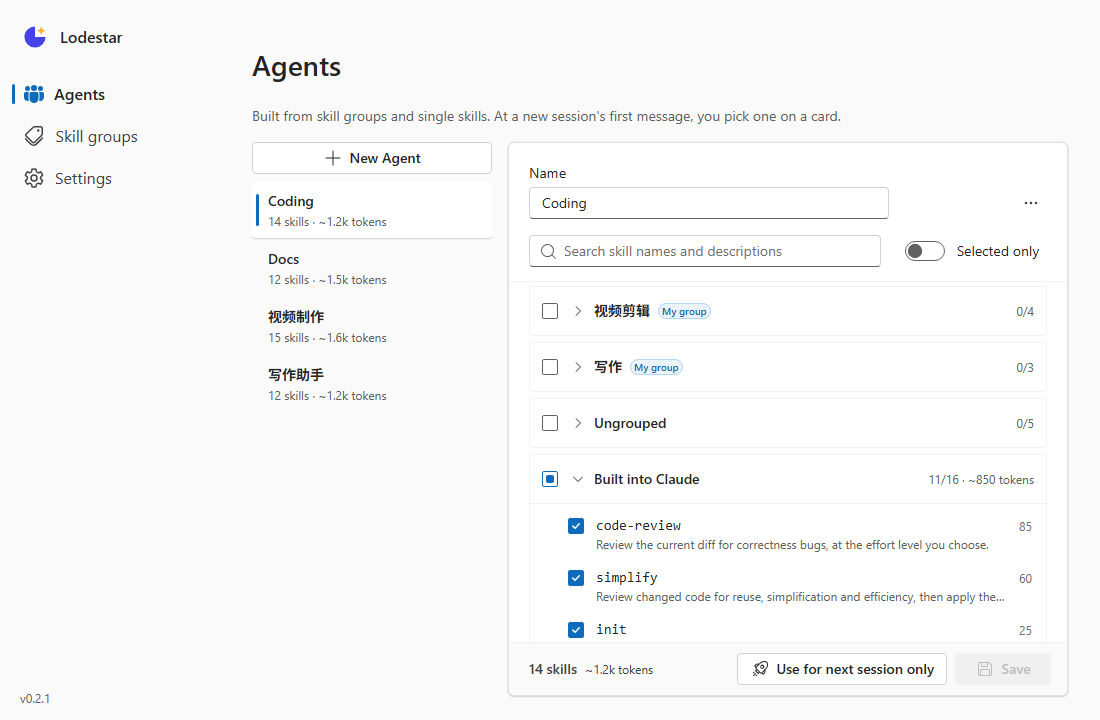
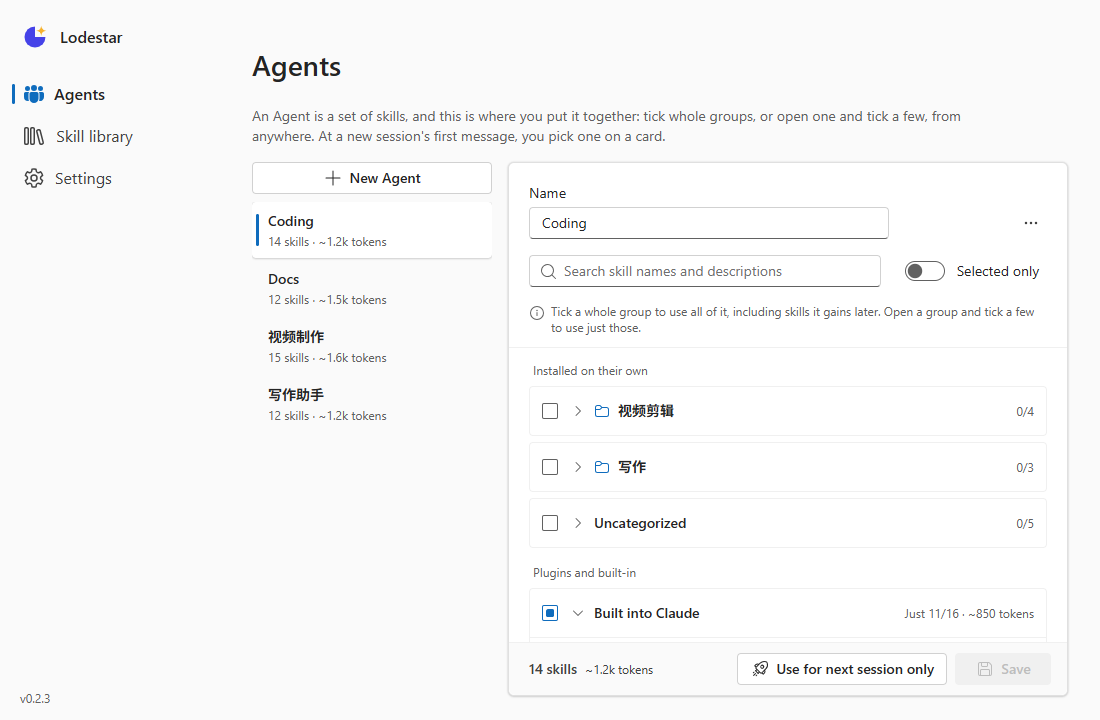
Lodestar v0.2.3: categories everywhere, README to match
The plugin's panel calls the person's own groups categories too, as the
client does: 分类 in Chinese, with 未分类 for the loose skills in none,
and "installed on their own" in place of 零碎装 / "individually installed".
Its Agent editor says what ticking a whole group means.

The READMEs describe Agents, groups and categories as they now are, with
new screenshots of the Agents page. The plugin and the client go to 0.2.3.

diff --git a/plugin/hooks/i18n.ts b/plugin/hooks/i18n.ts
@@ -188,7 +188,7 @@ const zh: Words = {
   sameAsParent: '和上级代理一样',
   clientPick: '客户端里调好的',
 
-  ungrouped: '未归组',
+  ungrouped: '未分类',
   sources: { 'built-in': 'Claude 自带', policySettings: '组织', mcp: 'MCP' },
   otherSource: '其他',
   pluginTag: '插件',
@@ -231,10 +231,10 @@ const zh: Words = {
     updated: name => `已更新 Agent「${name}」`,
     created: name => `已新建 Agent「${name}」`,
     saved: name => `已保存 Agent「${name}」`,
-    groupTaken: name => `已经有叫「${name}」的技能组了`,
+    groupTaken: name => `已经有叫「${name}」的分类了`,
     renamed: name => `已改名为「${name}」`,
-    groupDeleted: name => `已删除技能组「${name}」，里面的 skill 回到「未归组」`,
-    reset: 'Agent 和技能组已恢复成默认设置',
+    groupDeleted: name => `已删除分类「${name}」，只在这个分类里的 skill 回到「未分类」`,
+    reset: 'Agent 和分类已恢复成默认设置',
   },
 
   command: {
@@ -260,36 +260,36 @@ const zh: Words = {
     editAgent: '编辑 Agent',
     name: '名字',
     namePlaceholder: '视频制作',
-    whichGroups: '装哪些技能组',
-    whichGroupsHint: '勾整组，或者点组名展开、勾单个 skill',
+    whichGroups: '装哪些 skill',
+    whichGroupsHint: '勾整组（以后组里新增的也会带上），或者点组名展开、只勾几个',
     picked: (count, always) => `已选 ${count} 个（含 ${always} 个常驻）`,
     save: '保存',
-    groupsHeading: '技能组',
-    groupGone: '这个技能组已经不在了',
-    editGroup: '编辑技能组',
+    groupsHeading: '分类',
+    groupGone: '这个分类已经不在了',
+    editGroup: '编辑分类',
     nameHint: '改完按回车',
     members: count => `成员 ${count} 个`,
-    membersHint: '勾选零碎装的 skill 放进这个组。一个 skill 可以同时放进几个组',
-    noLoose: '没有零碎装的 skill',
+    membersHint: '勾选单独安装的 skill 放进这个分类。一个 skill 可以同时放进几个分类',
+    noLoose: '没有单独安装的 skill',
     inGroup: names => `  在 ${names}`,
     alsoIn: names => `  也在 ${names}`,
-    deleteGroup: '删除这个技能组',
-    deleteGroupConfirm: '确认删除这个技能组？再点一次',
+    deleteGroup: '删除这个分类',
+    deleteGroupConfirm: '确认删除这个分类？再点一次',
     manage: '管理',
     lockedNote: '这个会话已经锁定，这里的修改从下一个新会话起生效',
     agents: 'Agent',
-    agentsHint: '由技能组和单个 skill 拼成；新会话发第一条消息时选一个',
+    agentsHint: '一套 skill：整组勾或者只勾几个，来自哪里都行；新会话发第一条消息时选一个',
     noAgents: '还没有 Agent',
     edit: '编辑',
     remove: '删除',
     removeConfirm: '确认删除？',
     createAgent: '＋ 新建 Agent',
-    groups: '技能组',
-    groupsHint: '把零碎装的 skill 归在一起',
+    groups: '分类',
+    groupsHint: '把单独安装的 skill 归在一起，一个 skill 可以放进几个分类',
     emptyGroup: '空',
-    newGroupPlaceholder: '新技能组名，回车创建',
-    allGrouped: '零碎装的 skill 都已归组',
-    looseLeft: count => `还有 ${count} 个零碎装的 skill 没归组`,
+    newGroupPlaceholder: '新分类名，回车创建',
+    allGrouped: '单独安装的 skill 都已分类',
+    looseLeft: count => `还有 ${count} 个单独安装的 skill 没分类`,
     fixedGroups: '插件和 Claude 自带的 skill',
     fixedGroupsHint: '装的时候就分好组了，不能调整；建 Agent 时可以整组勾选',
     none: '没有',
@@ -307,14 +307,14 @@ const zh: Words = {
     pickerPersonNote: '每开一个子代理都弹卡片问你，主代理建议的排第一',
     pickerAgentNote: '主代理在子代理的任务里写一行「技能装配：名字」来指定；不写就沿用主会话',
     dataFile: '数据文件',
-    dataFileHint: 'Agent、技能组和上面的设置都存在这里，可以直接编辑，别的工具也能读',
+    dataFileHint: 'Agent、分类和上面的设置都存在这里，可以直接编辑，别的工具也能读',
     noHome: '没找到用户目录，只存在插件自己的存储里',
     fileInvalid: error => `文件格式有误（${error}）。现在用的是上次读到的设置；在这里改动会用这些设置覆盖这个文件`,
     fileUnreadable: error => `读不了这个文件（${error}），现在用的是上次读到的设置`,
     fileUnwritable: error => `写不进这个文件（${error}），改动只存在插件自己的存储里`,
     unknownError: '原因不明',
     reset: '恢复默认设置',
-    resetConfirm: 'Agent 和技能组都会恢复成默认，再点一次确认',
+    resetConfirm: 'Agent 和分类都会恢复成默认，再点一次确认',
     listTokens: (loaded, total) => ` · 清单约 ${loaded} / ${total} tokens`,
     loaded: (count, total, tokens) => `已装配 ${count} / ${total} 个 skill${tokens}`,
     lockedState: '● 已锁定：这个会话不再改装配',
@@ -360,7 +360,7 @@ const en: Words = {
   sameAsParent: 'Same as its parent agent',
   clientPick: 'Prepared in the client',
 
-  ungrouped: 'Ungrouped',
+  ungrouped: 'Uncategorized',
   sources: { 'built-in': 'Built into Claude', policySettings: 'Organization', mcp: 'MCP' },
   otherSource: 'Other',
   pluginTag: 'plugin',
@@ -403,10 +403,10 @@ const en: Words = {
     updated: name => `Updated the Agent "${name}"`,
     created: name => `Created the Agent "${name}"`,
     saved: name => `Saved the Agent "${name}"`,
-    groupTaken: name => `There's already a group called "${name}"`,
+    groupTaken: name => `There's already a category called "${name}"`,
     renamed: name => `Renamed to "${name}"`,
-    groupDeleted: name => `Deleted the group "${name}"; its skills are ungrouped again`,
-    reset: 'Agents and skill groups are back to the defaults',
+    groupDeleted: name => `Deleted the category "${name}"; skills that were only in it are uncategorized again`,
+    reset: 'Agents and categories are back to the defaults',
   },
 
   command: {
@@ -432,36 +432,36 @@ const en: Words = {
     editAgent: 'Edit Agent',
     name: 'Name',
     namePlaceholder: 'Video production',
-    whichGroups: 'Which skill groups',
-    whichGroupsHint: 'Tick whole groups, or open a group and tick single skills',
+    whichGroups: 'Which skills',
+    whichGroupsHint: 'Tick a whole group (skills it gains later come along), or open one and tick a few',
     picked: (count, always) => `${count} picked (${always} always on)`,
     save: 'Save',
-    groupsHeading: 'Skill groups',
-    groupGone: 'This skill group no longer exists',
-    editGroup: 'Edit skill group',
+    groupsHeading: 'Categories',
+    groupGone: 'This category no longer exists',
+    editGroup: 'Edit category',
     nameHint: 'Press Enter when done',
     members: count => plural(count, 'member', 'members'),
-    membersHint: 'Tick individually installed skills to put them in this group. A skill can be in several groups',
-    noLoose: 'No individually installed skills',
+    membersHint: 'Tick skills installed on their own to put them in this category. A skill can be in several categories',
+    noLoose: 'No skills installed on their own',
     inGroup: names => `  in ${names}`,
     alsoIn: names => `  also in ${names}`,
-    deleteGroup: 'Delete this group',
-    deleteGroupConfirm: 'Delete this group? Press again',
+    deleteGroup: 'Delete this category',
+    deleteGroupConfirm: 'Delete this category? Press again',
     manage: 'Manage',
     lockedNote: 'This session is locked; changes here apply from the next new session',
     agents: 'Agents',
-    agentsHint: "Built from skill groups and single skills; picked at a new session's first message",
+    agentsHint: "A set of skills: whole groups or just a few, from anywhere; picked at a new session's first message",
     noAgents: 'No Agents yet',
     edit: 'Edit',
     remove: 'Delete',
     removeConfirm: 'Delete?',
     createAgent: '＋ New Agent',
-    groups: 'Skill groups',
-    groupsHint: 'Group the skills you installed one by one',
+    groups: 'Categories',
+    groupsHint: 'Put skills you installed on their own together; a skill can be in several',
     emptyGroup: 'empty',
-    newGroupPlaceholder: 'New group name, then Enter',
-    allGrouped: 'Every individually installed skill is in a group',
-    looseLeft: count => `${plural(count, 'individually installed skill is', 'individually installed skills are')} in no group`,
+    newGroupPlaceholder: 'New category name, then Enter',
+    allGrouped: 'Every skill installed on its own is in a category',
+    looseLeft: count => `${plural(count, 'skill installed on its own is', 'skills installed on their own are')} in no category`,
     fixedGroups: 'Skills from plugins and Claude',
     fixedGroupsHint: 'Grouped when installed and fixed; you can tick a whole group in an Agent',
     none: 'None',
@@ -479,14 +479,14 @@ const en: Words = {
     pickerPersonNote: "A card asks you for each subagent, the main agent's suggestion first",
     pickerAgentNote: 'The main agent names a set with a line "skill loadout: <name>" in the task; without it the subagent keeps the session\'s set',
     dataFile: 'Data file',
-    dataFileHint: 'Agents, skill groups and the settings above are kept here; you can edit it, and other tools read it',
+    dataFileHint: 'Agents, categories and the settings above are kept here; you can edit it, and other tools read it',
     noHome: "No home folder found; kept in the plugin's own storage only",
     fileInvalid: error => `The file has a format error (${error}). The settings read last are in use; a change here overwrites the file with them`,
     fileUnreadable: error => `The file can't be read (${error}); the settings read last are in use`,
     fileUnwritable: error => `The file can't be written (${error}); changes are kept in the plugin's own storage only`,
     unknownError: 'unknown reason',
     reset: 'Restore defaults',
-    resetConfirm: 'Agents and skill groups go back to the defaults; press again to confirm',
+    resetConfirm: 'Agents and categories go back to the defaults; press again to confirm',
     listTokens: (loaded, total) => ` · listing ~${loaded} / ${total} tokens`,
     loaded: (count, total, tokens) => `${count} / ${total} skills loaded${tokens}`,
     lockedState: "● Locked: this session's skills won't change",

diff --git a/plugin/hooks/loadout.test.tsx b/plugin/hooks/loadout.test.tsx
@@ -828,7 +828,7 @@ test('a group is made from loose skills only, renamed, and deleted', async ($, o
   expect(await ui.find({ type: 'Text', text: /成员 2 个/ })).toBeDefined()
   await ui.press({ key: 'group-done' })
   expect(await ui.find({ key: 'edit-group:视频素材' })).toBeDefined()
-  expect((await ui.find({ type: 'Text', text: /没归组/ }))?.text).toBe('还有 2 个零碎装的 skill 没归组')
+  expect((await ui.find({ type: 'Text', text: /没分类/ }))?.text).toBe('还有 2 个单独安装的 skill 没分类')
   expect(await ui.find({ type: 'Text', text: /插件和 Claude 自带/ })).toBeDefined()
 
   // On the main screen the group is ticked whole.
@@ -838,7 +838,7 @@ test('a group is made from loose skills only, renamed, and deleted', async ($, o
   await ui.press({ key: 'del-group:视频素材' })
   await ui.press({ key: 'del-group:视频素材' })
   expect(await ui.find({ key: 'edit-group:视频素材' })).toBe(undefined)
-  expect((await ui.find({ type: 'Text', text: /没归组/ }))?.text).toBe('还有 4 个零碎装的 skill 没归组')
+  expect((await ui.find({ type: 'Text', text: /没分类/ }))?.text).toBe('还有 4 个单独安装的 skill 没分类')
   await ui.unmount()
 
   expect(fileOf(fake, LIBRARY_PATH)['groups']).toEqual({})

diff --git a/plugin/hooks/register.tsx b/plugin/hooks/register.tsx
@@ -160,8 +160,8 @@ const LOADOUT_TOOL = {
   name: 'loadout',
   description:
     'Lodestar (skill loadout): action "status" returns the skills this session loads (the person picks an Agent when the ' +
-    "conversation's first message is sent; locked after that), the Agents, the skill groups, where they are " +
-    'stored, and diagnostics; "open" opens the Lodestar panel, where Agents and skill groups are managed.',
+    "conversation's first message is sent; locked after that), the Agents, the categories, where they are " +
+    'stored, and diagnostics; "open" opens the Lodestar panel, where Agents and categories are managed.',
   inputSchema: {
     type: 'object',
     properties: { action: { type: 'string', enum: ['status', 'open'] } },

diff --git a/README.md b/README.md
@@ -24,7 +24,7 @@ Claude Code shows the model every skill you have installed, in every session. Lo
 - **Pick at the first message.** A card asks which Agent to use before Claude reads anything, so nothing in the prompt cache is lost.
 - **One set per session.** It locks once the session starts. Need one more skill? Name it in your message.
 - **Subagents included.** Each subagent can get its own set; forks keep their parent's.
-- **A tray client for Windows.** Build Agents and skill groups any time, and prepare a one-off set for your next session.
+- **A tray client for Windows.** Build Agents, browse every skill you have, and prepare a one-off set for your next session.
 - **Chinese and English**, in the plugin and the client alike.
 
 ## Install
@@ -61,8 +61,9 @@ Download `Lodestar_<version>_x64-setup.exe` from the [latest release](https://gi
 
 ## Concepts
 
-- **Agent**: a named set of skills, such as *Coding* or *Video production*. Each session uses one.
-- **Skill group**: a category of skills. Each plugin is a group, and so are Claude's built-in skills; the skills you install one by one, you group yourself.
+- **Agent**: a named set of skills, such as *Coding* or *Video production*. Each session uses one. An Agent takes whole groups, including skills they gain later, or just a few of their skills, from anywhere.
+- **Group**: skills that came together. Each plugin is a group, and so are Claude's built-in skills.
+- **Category**: your own group for skills you installed on their own. A skill can be in several categories, and an Agent can take a whole category.
 
 ## Settings
 
@@ -81,7 +82,7 @@ Everything is plain JSON in `~/.skill-loadout/` (or the folder `SKILL_LOADOUT_HO
 
 | File | Holds | Written by |
 | --- | --- | --- |
-| `library.json` | Agents, skill groups and settings | the panel, the client, you |
+| `library.json` | Agents, categories and settings | the panel, the client, you |
 | `claude-code-skills.json` | The skills Claude Code has, with their descriptions | the plugin |
 | `next-session.json` | A set prepared for the next session | the client |
 | `client.json` | Where the client is installed | the client |
@@ -106,8 +107,8 @@ The first run creates `library.json` with two example Agents, *Coding* and *Docs
 }
 ```
 
-- `groups`: a group name and its skills. `*` is a wildcard; `!name` leaves a skill out.
-- `agents`: an Agent's whole `groups`, by ID (`g:<your group>`, `p:<plugin>`, `s:built-in`), plus single `skills`.
+- `groups`: your categories, each a name and its skills. `*` is a wildcard; `!name` leaves a skill out. A skill may be in several.
+- `agents`: an Agent's whole `groups`, by ID (`g:<category>`, `p:<plugin>`, `s:built-in`), plus single `skills`.
 - `subagentPicker`: `agent` or `person`. `language`: `auto`, `zh` or `en`.
 - Fields that Lodestar doesn't know are kept when it saves.
 
@@ -137,7 +138,7 @@ The first run creates `library.json` with two example Agents, *Coding* and *Docs
 - Sessions started by another session or by a scheduled task also wait on the card; turn the card off if that gets in the way.
 - Whether the main agent names a subagent's set depends on the model (Haiku doesn't); naming the set in your request always works.
 - A subagent's set is kept in memory: after a restart, a resumed subagent gets the main session's set.
-- If two places save Agents or groups at the same moment, the later save wins.
+- If two places save Agents or categories at the same moment, the later save wins.
 
 </details>
 

diff --git a/README.zh-CN.md b/README.zh-CN.md
@@ -24,7 +24,7 @@ Claude Code 会把你装的所有 skill 都列给模型，每个会话都是。L
 - **第一条消息时选**：Claude 读消息之前，卡片先问你用哪个 Agent，不会浪费对话缓存。
 - **一个会话一套**：会话开始后就锁定；临时要多用一个 skill，在消息里写出它的名字就行。
 - **子代理也管**：每个子代理可以有自己的一套；fork 出来的沿用上级的。
-- **Windows 托盘客户端**：随时编辑 Agent 和技能组，还能给下一个会话临时调一套。
+- **Windows 托盘客户端**：随时编辑 Agent、查看手上所有的 skill，还能给下一个会话临时调一套。
 - **中文和英文**：插件和客户端都支持。
 
 ## 安装
@@ -61,8 +61,9 @@ Claude Code 会把你装的所有 skill 都列给模型，每个会话都是。L
 
 ## 概念
 
-- **Agent**：起了名字的一套 skill，比如「Coding」「视频制作」。每个会话用一个。
-- **技能组**：skill 的分类。每个插件是一组，Claude 自带的是一组；零碎装的 skill 由你自己归组。
+- **Agent**：起了名字的一套 skill，比如「Coding」「视频制作」。每个会话用一个。可以整组勾（以后组里新增的 skill 也会带上），也可以只勾其中几个，来自哪里都行。
+- **组**：一起装进来的 skill。每个插件是一组，Claude 自带的是一组。
+- **分类**：你给单独安装的 skill 建的组。一个 skill 可以放进几个分类，Agent 可以整个分类勾选。
 
 ## 设置
 
@@ -81,7 +82,7 @@ Claude Code 会把你装的所有 skill 都列给模型，每个会话都是。L
 
 | 文件 | 存的是 | 谁写 |
 | --- | --- | --- |
-| `library.json` | Agent、技能组和设置 | 面板、客户端、你自己 |
+| `library.json` | Agent、分类和设置 | 面板、客户端、你自己 |
 | `claude-code-skills.json` | Claude Code 实际有的 skill 及其说明 | 插件 |
 | `next-session.json` | 给下一个会话调好的一套 | 客户端 |
 | `client.json` | 客户端装在哪里 | 客户端 |
@@ -106,8 +107,8 @@ Claude Code 会把你装的所有 skill 都列给模型，每个会话都是。L
 }
 ```
 
-- `groups`：组名和它的 skill。`*` 是通配符，`!名字` 表示排除。
-- `agents`：Agent 包含的整组（写组的编号：`g:自己的组`、`p:插件名`、`s:built-in`），加上单个的 `skills`。
+- `groups`：你的分类，分类名和它的 skill。`*` 是通配符，`!名字` 表示排除；一个 skill 可以在几个分类里。
+- `agents`：Agent 包含的整组（写组的编号：`g:分类名`、`p:插件名`、`s:built-in`），加上单个的 `skills`。
 - `subagentPicker`：`agent` 或 `person`。`language`：`auto`、`zh` 或 `en`。
 - Lodestar 保存时会保留它不认识的字段。
 
@@ -137,7 +138,7 @@ Claude Code 会把你装的所有 skill 都列给模型，每个会话都是。L
 - 别的会话或定时任务开出来的新会话，也会停在卡片上等人选；碍事的话把卡片关掉。
 - 主代理会不会给子代理点名，看模型本身（Haiku 就不会）；你在消息里点名一定有效。
 - 子代理的装配只记在内存里：重启后再唤醒以前的子代理，它沿用主会话的装配。
-- 两个地方同时保存 Agent 或技能组，以后保存的为准。
+- 两个地方同时保存 Agent 或分类，以后保存的为准。
 
 </details>
 
